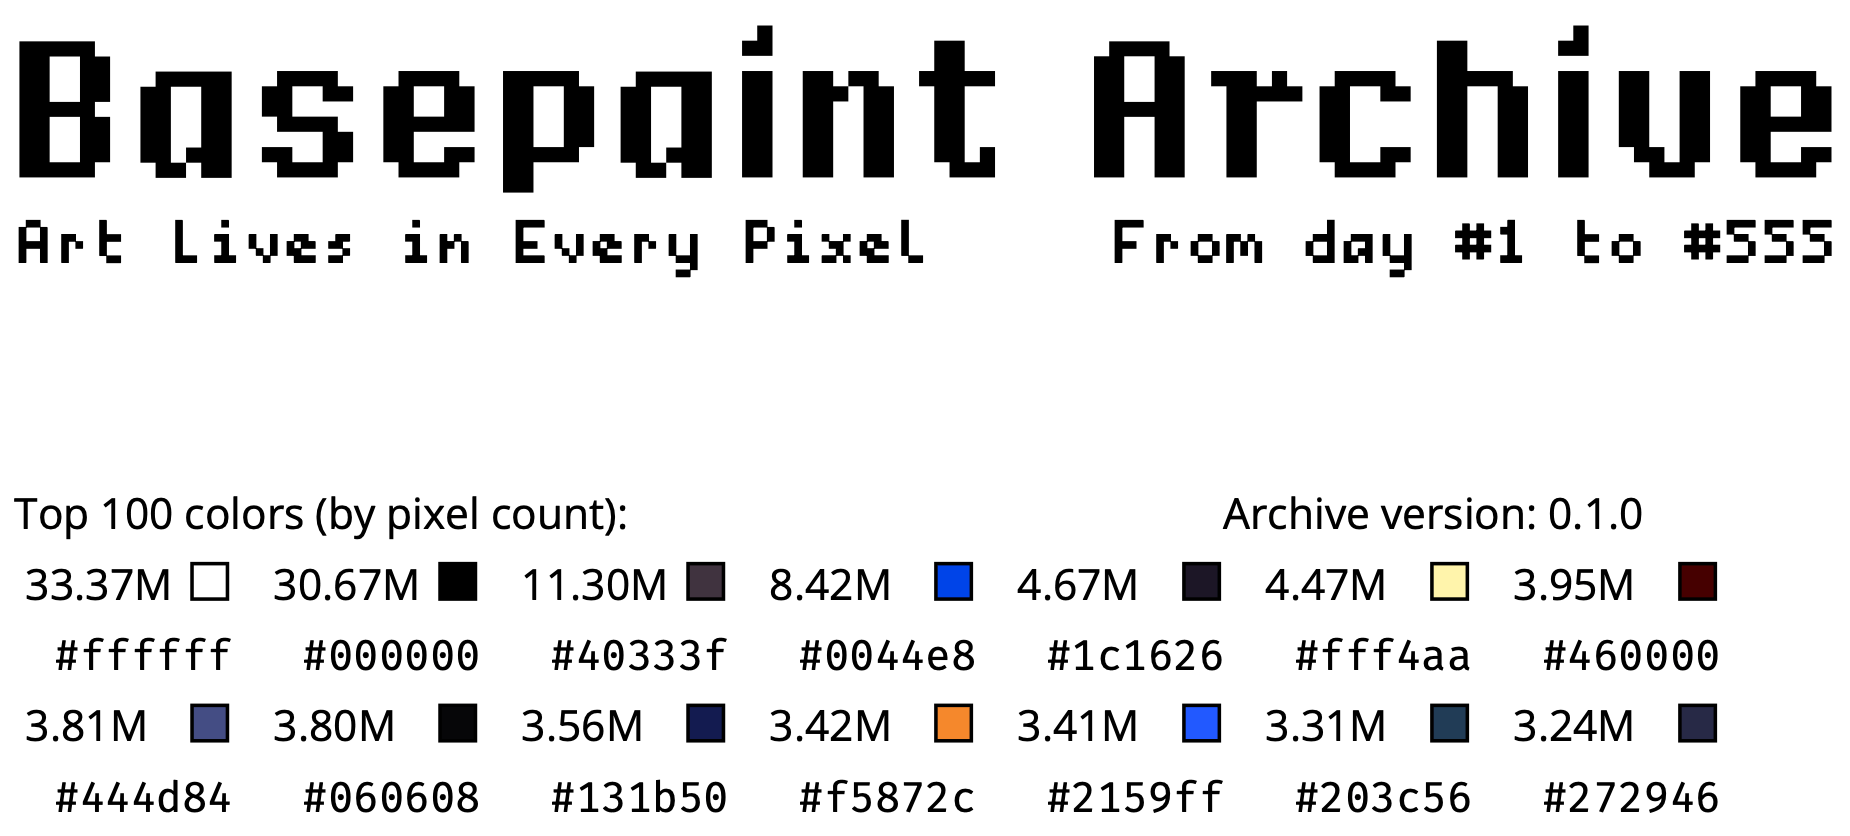
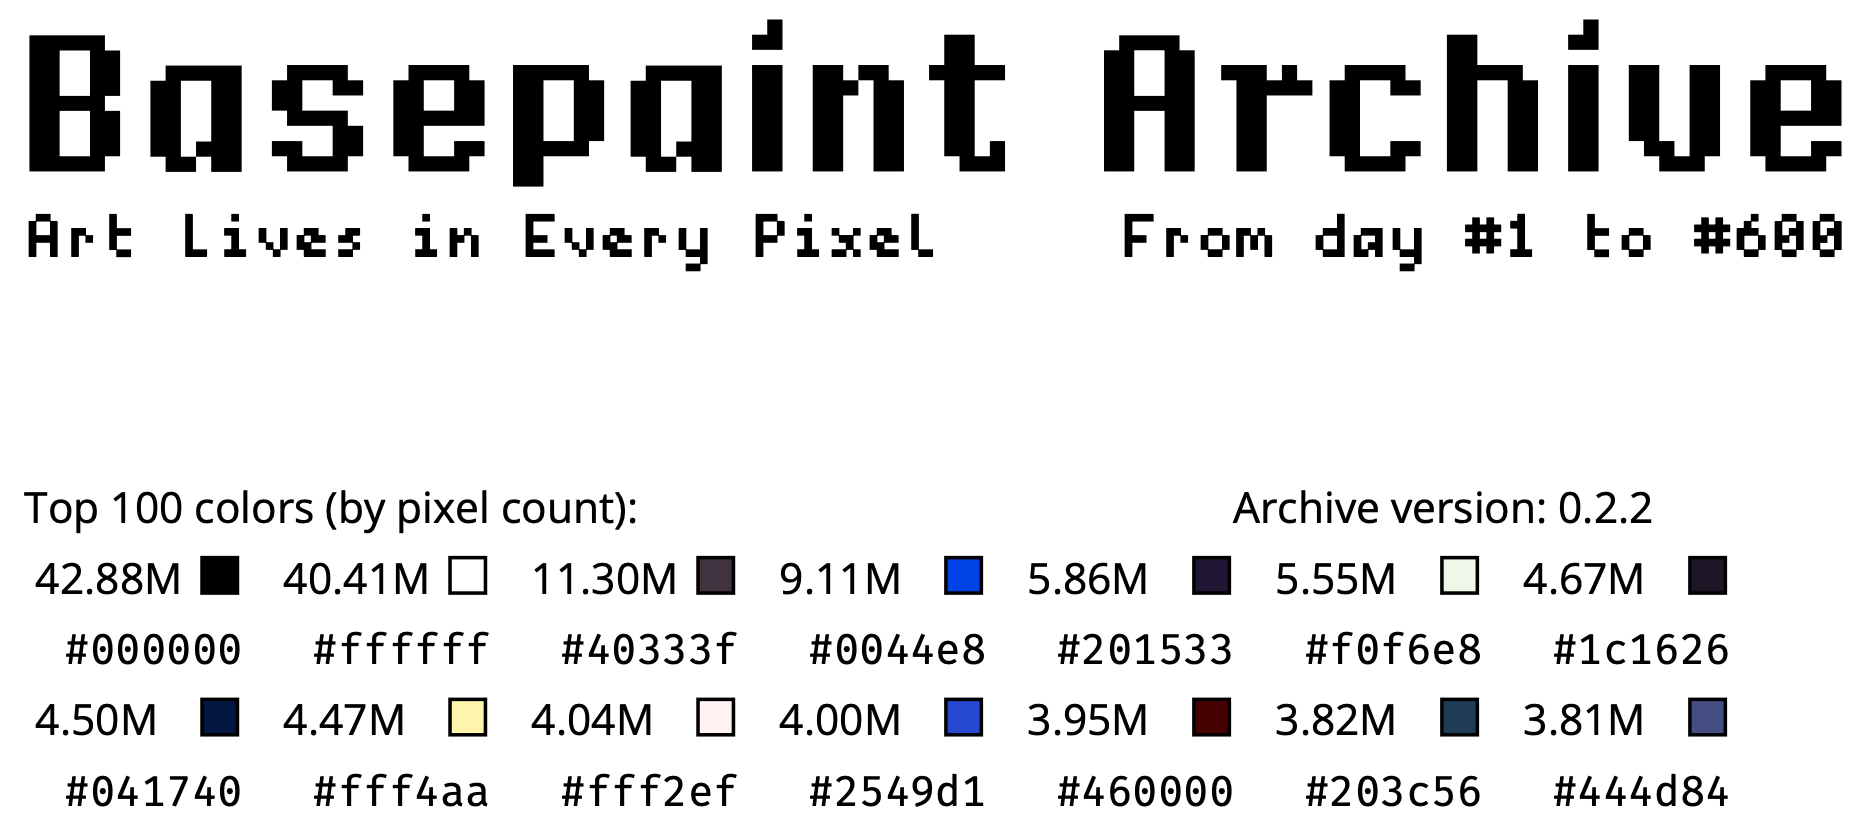
docs(preview): update cover preview til 600

diff --git a/config.py b/config.py
@@ -1,5 +1,5 @@
-LATEST = 600
+LATEST = 601
 BATCH_SIZE = 100
 CREATE_COVER = False
 INCLUDE_VIDEO = False
-ARCHIVE_VERSION = "0.2.1"
+ARCHIVE_VERSION = "0.2.2"
